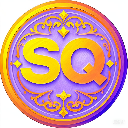
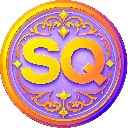
优化icon、支持滚动模式

diff --git a/src/renderer/pages/view/DetailView.tsx b/src/renderer/pages/view/DetailView.tsx
@@ -1,7 +1,7 @@
 import Image from '../../components/Image';
 import React, { useEffect, useState } from 'react';
-import { Button, Option, Select, Stack } from '@mui/joy';
-import { ArrowDropDown } from '@mui/icons-material';
+import { Button, Option, Select, Stack, ToggleButtonGroup } from '@mui/joy';
+import { ArrowDropDown, ViewCarousel, ViewList } from '@mui/icons-material';
 import { DirShow, isDirShow, ProjectMeta } from '../../data';
 import { isValidString } from '../../utils/stringUtils';
 
@@ -21,6 +21,9 @@ const metaSmallPicPaths = (meta: ProjectMeta): (string | undefined)[] => {
   return meta.indexToSmallFileName.map(id => idToPath(meta, id));
 };
 
+// 修改视图模式类型
+type ViewMode = 'single' | 'list';
+
 export default (props: {
   md: ProjectMeta,
   defaultDirShow: DirShow
@@ -31,13 +34,34 @@ export default (props: {
   const paths = metaPicPaths(md);
   const [index, setIndexOrigin] = useState(0);
   const [dirShow, setDirShow] = useState<DirShow>(defaultDirShow);
-
+  const [viewMode, setViewMode] = useState<ViewMode>('single');
+  const [visibleRange, setVisibleRange] = useState({ start: 0, end: 20 });
   const [prevTitle] = useState<string>(document.title);
 
+  // 统一的 setIndex 方法
   const setIndex = (idx: number) => {
     setIndexOrigin(idx);
     document.getElementById(`detail-index-${idx}`)?.scrollIntoView({ behavior: 'smooth' });
     document.title = `第 ${idx + 1} / ${paths.length} 页`;
+
+    // 在列表模式下，确保目标图片在可视范围内
+    if (viewMode === 'list') {
+      const element = document.getElementById(`list-item-${idx}`);
+      if (element) {
+        element.scrollIntoView({ behavior: 'smooth', block: 'start' });
+      } else {
+        // 如果目标不在当前可视范围，调整可视范围
+        const newStart = Math.floor(idx / 20) * 20;
+        setVisibleRange({
+          start: newStart,
+          end: Math.min(newStart + 20, paths.length)
+        });
+        // 等待DOM更新后再滚动
+        setTimeout(() => {
+          document.getElementById(`list-item-${idx}`)?.scrollIntoView({ behavior: 'smooth', block: 'start' });
+        }, 100);
+      }
+    }
   };
 
   useEffect(() => {
@@ -46,6 +70,56 @@ export default (props: {
       document.title = prevTitle;
     };
   }, []);
+
+  // 统一的滚动处理
+  const handleWheel = (e: React.WheelEvent) => {
+    if (viewMode === 'list') return
+    e.preventDefault();
+    if (e.deltaY < 0) {
+      setIndex(Math.max(0, index - 1));
+    } else {
+      setIndex(Math.min(paths.length - 1, index + 1));
+    }
+  };
+
+  // 处理列表视图的滚动
+  const handleScroll = (e: React.UIEvent<HTMLDivElement>) => {
+    if (viewMode !== 'list') return;
+
+    const element = e.currentTarget;
+
+    // 处理懒加载 - 向下滚动
+    if (element.scrollHeight - element.scrollTop - element.clientHeight < 200) {
+      setVisibleRange(prev => ({
+        start: prev.start,
+        end: Math.min(prev.end + 20, paths.length)
+      }));
+    }
+
+    // 处理懒加载 - 向上滚动
+    if (element.scrollTop < 200) {
+      setVisibleRange(prev => ({
+        start: Math.max(0, prev.start - 20),
+        end: prev.end
+      }));
+    }
+
+    // 处理导航联动
+    const items = element.getElementsByClassName('p-d-list-item');
+    for (let i = 0; i < items.length; i++) {
+      const item = items[i];
+      const rect = item.getBoundingClientRect();
+      if (rect.top >= 0 && rect.top <= window.innerHeight / 2) {
+        const newIndex = visibleRange.start + i;
+        if (newIndex !== index) {
+          setIndexOrigin(newIndex); // 使用 setIndexOrigin 避免重复滚动
+          document.title = `第 ${newIndex + 1} / ${paths.length} 页`;
+          document.getElementById(`detail-index-${newIndex}`)?.scrollIntoView({ behavior: 'smooth' });
+        }
+        break;
+      }
+    }
+  };
 
   const handleImageClick = (event: React.MouseEvent<HTMLImageElement>) => {
     const rect = event.currentTarget.getBoundingClientRect();
@@ -59,72 +133,114 @@ export default (props: {
     }
   };
 
-
-  const idDir = () => {
-    return <Stack>{
-      Array.from({ length: paths.length }, (_, i) => i)
-        .map(i => <Button variant={i == index ? 'solid' : 'plain'}
-                          id={`detail-index-${i}`}
-                          onClick={() => setIndex(i)}
-                          key={i}>第 {i + 1} 页</Button>)
-    }
-    </Stack>;
-  };
+  // 修改列表视图渲染函数
+  const listView = () => (
+    <div className='p-d-list-container'>
+      {paths.slice(visibleRange.start, visibleRange.end).map((path, i) => (
+        <div
+          key={i}
+          id={`list-item-${visibleRange.start + i}`}
+          className='p-d-list-item'
+        >
+           <Image
+            fd={path}
+            fileType='blob'
+            style={{ width: '100%', height: 'auto' }}
+          />
+        </div>
+      ))}
+    </div>
+  );
 
   return <div className='p-d-container' tabIndex={0}
-              onWheel={e => {
-                if (e.deltaY < 0) {
-                  setIndex(Math.max(0, index - 1)); // 向前一页
-                } else {
-                  setIndex(Math.min(paths.length - 1, index + 1)); // 向后一页
-                }
-              }}
-
+              onWheel={handleWheel}
               onKeyDown={(e: React.KeyboardEvent) => {
-    if (e.key == 'ArrowLeft') {
-      setIndex(Math.max(0, index - 1)); // 向前一页
-    } else if (e.key === 'ArrowRight') {
-      setIndex(Math.min(paths.length - 1, index + 1)); // 向后一页
-    } else if (e.key === 'Escape') {
-      onCloseDetail()
-    }
-  }}>
-    <div className='p-d-close '><Button onClick={() => onCloseDetail()}>关闭</Button></div>
-    <div className='p-d-dir-container'>
-      <Select defaultValue={dirShow}
-              onChange={(_, n: string|null) => {
-                if (!isDirShow(n)) {
-                  return
+                if (e.key === 'ArrowLeft') {
+                  setIndex(Math.max(0, index - 1));
+                } else if (e.key === 'ArrowRight') {
+                  setIndex(Math.min(paths.length - 1, index + 1));
+                } else if (e.key === 'Escape') {
+                  onCloseDetail();
                 }
-                setDirShow(n);
-                onChangeDirShow(n);
-                setTimeout(() => {
-                  document.getElementById(`detail-index-${index}`)?.scrollIntoView({ behavior: 'smooth' });
-                }, 200);
-              }}
-              indicator={<ArrowDropDown />}
-              sx={{ marginBottom: 1 }}
-      >
-        <Option value='id'>页码</Option>
-        <Option value='pic'>缩略图</Option>
-      </Select>
-      <div className='p-d-dir'>
-        {
-          dirShow == 'id' ? idDir()
-            : <Stack spacing={1} direction='column' alignItems='center'>{metaSmallPicPaths(md)
-              .map((path: string | undefined, i: number) => <Image
-                style={{
-                  border: i == index ? '2px solid blue' : ''
-                }}
-                id={`detail-index-${i}`}
-                onClick={() => setIndex(i)}
-                width={i == index ? 112 : 92} fd={path}
-                key={i} fileType='dataUrl' />)}</Stack>
-        }
-      </div>
-
+              }}>
+    <div className='p-d-close'>
+      <Stack direction="row" spacing={2} alignItems="center">
+        <ToggleButtonGroup
+          value={viewMode}
+          onChange={(_, newValue) => newValue && setViewMode(newValue)}
+        >
+          <Button value="single" aria-label="单页"><ViewCarousel /></Button>
+          <Button value="list" aria-label="列表"><ViewList /></Button>
+        </ToggleButtonGroup>
+        <Button onClick={() => onCloseDetail()}>关闭</Button>
+      </Stack>
     </div>
 
-    <Image className='p-d-mainimg' onClick={handleImageClick} fd={paths[index]} fileType='blob' />
+    <div className='p-d-content'>
+      <div className='p-d-main' onScroll={handleScroll}>
+        {viewMode === 'single' ? (
+          <Image
+            className='p-d-mainimg'
+            onClick={handleImageClick}
+            fd={paths[index]}
+            fileType='blob'
+          />
+        ) : (
+          listView()
+        )}
+      </div>
+
+      <div className='p-d-dir-container'>
+        <Select
+          value={dirShow}
+          onChange={(_, n: string|null) => {
+            if (!isDirShow(n)) return;
+            setDirShow(n);
+            onChangeDirShow(n);
+            setTimeout(() => {
+              document.getElementById(`detail-index-${index}`)?.scrollIntoView({ behavior: 'smooth' });
+            }, 200);
+          }}
+          indicator={<ArrowDropDown />}
+          sx={{ marginBottom: 1 }}
+        >
+          <Option value='id'>页码</Option>
+          <Option value='pic'>缩略图</Option>
+        </Select>
+        <div className='p-d-dir'>
+          {dirShow == 'id' ? (
+            <Stack>
+              {Array.from({ length: paths.length }, (_, i) => i)
+                .map(i => (
+                  <Button
+                    variant={i === index ? 'solid' : 'plain'}
+                    id={`detail-index-${i}`}
+                    onClick={() => setIndex(i)}
+                    key={i}
+                  >
+                    第 {i + 1} 页
+                  </Button>
+                ))}
+            </Stack>
+          ) : (
+            <Stack spacing={1} direction='column' alignItems='center'>
+              {metaSmallPicPaths(md).map((path: string | undefined, i: number) => (
+                <Image
+                  style={{
+                    border: i === index ? '2px solid blue' : ''
+                  }}
+                  id={`detail-index-${i}`}
+                  onClick={() => setIndex(i)}
+                  width={i === index ? 112 : 92}
+                  fd={path}
+                  key={i}
+                  fileType='dataUrl'
+                />
+              ))}
+            </Stack>
+          )}
+        </div>
+      </div>
+    </div>
   </div>;
 }

diff --git a/src/renderer/pages/Viewer.css b/src/renderer/pages/Viewer.css
@@ -39,3 +39,56 @@
     top: 10px;
     left: 10px;
 }
+
+.p-d-grid-container {
+  display: flex;
+  flex-wrap: wrap;
+  justify-content: center;
+  gap: 10px;
+  padding: 20px;
+  overflow-y: auto;
+  height: calc(100vh - 60px);
+}
+
+.p-d-grid-item {
+  transition: transform 0.2s;
+}
+
+.p-d-grid-item:hover {
+  transform: scale(1.05);
+}
+
+.p-d-content {
+  display: flex;
+  height: 100%;
+}
+
+.p-d-main {
+  flex: 1;
+  overflow-y: auto;
+}
+
+.p-d-list-container {
+  width: 100%;
+  max-width: 1000px;
+  margin: 0 auto;
+}
+
+.p-d-list-item {
+  margin: 0;
+  padding: 0;
+}
+
+.p-d-list-index {
+  padding: 10px;
+  background: #f5f5f5;
+  margin-bottom: 5px;
+  border-radius: 4px;
+}
+
+.p-d-dir-container {
+  width: 200px;
+  padding: 10px;
+  border-left: 1px solid #eee;
+  overflow-y: auto;
+}
